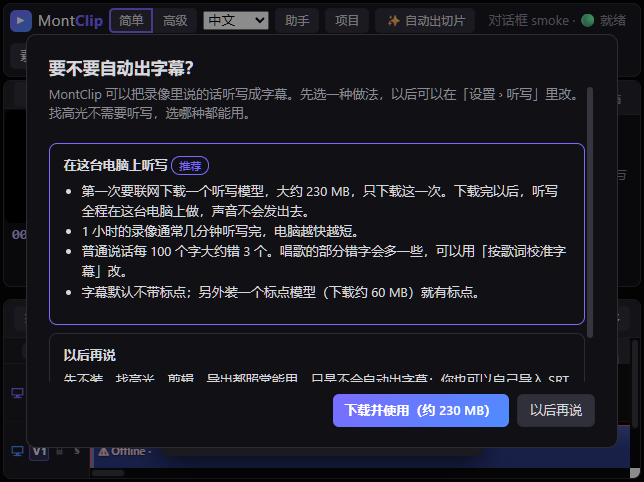
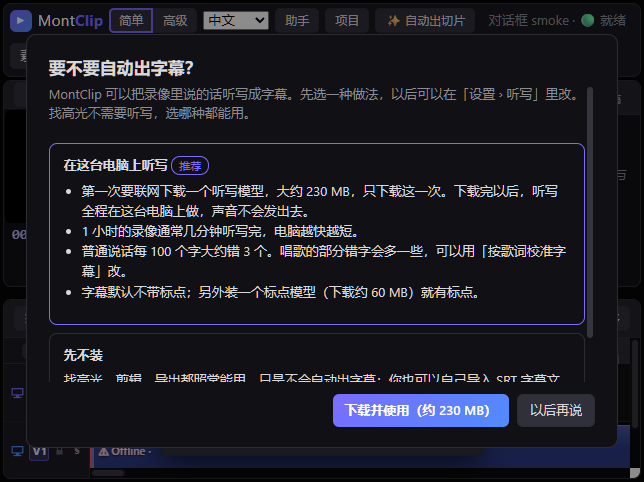
fix(asr): JJ's final words for the 「以后再说」 card, as written — 先不装 / Skip for now, and its text without the title again; the button keeps 以后再说 / Not now. Captures of the box replaced
Assisted-by: Cindy (https://cindy.app)

Changed region(s): [[0.0932, 0.7158, 0.9006, 0.8091]]

diff --git a/ui-preferences.js b/ui-preferences.js
@@ -171,8 +171,8 @@
     "setup-cloud-title": ["Use cloud transcription", "用云端听写"],
     "setup-cloud": ["Sends the recording's sound to the service you choose (OpenAI, Alibaba Bailian, SiliconFlow, or your own address), using your own account. You're asked before each send.", "会把录像的声音发给你选的服务（OpenAI、阿里百炼、SiliconFlow，或者你自己填的地址），用你自己的账号，费用记在你的账号上。每次发之前都会先问你。"],
     "setup-cloud-go": ["Choose a service", "选服务"],
-    "setup-later-title": ["Not now", "以后再说"],
-    "setup-later": ["Not now. Highlights, editing and export all still work; you just won't get automatic subtitles. You can also import an SRT file.", "先不装。找高光、剪辑、导出都照常能用，只是不会自动出字幕；你也可以自己导入 SRT 字幕文件。"],
+    "setup-later-title": ["Skip for now", "先不装"],
+    "setup-later": ["Highlights, editing and export all still work; you just won't get automatic subtitles. You can also import an SRT file.", "找高光、剪辑、导出都照常能用，只是不会自动出字幕；你也可以自己导入 SRT 字幕文件。"],
     "setup-dl-title": ["Downloading the transcription model", "正在下载听写模型"],
     "setup-done-title": ["The transcription model is installed", "听写模型装好了"],
     "setup-ok": ["OK", "好"],
